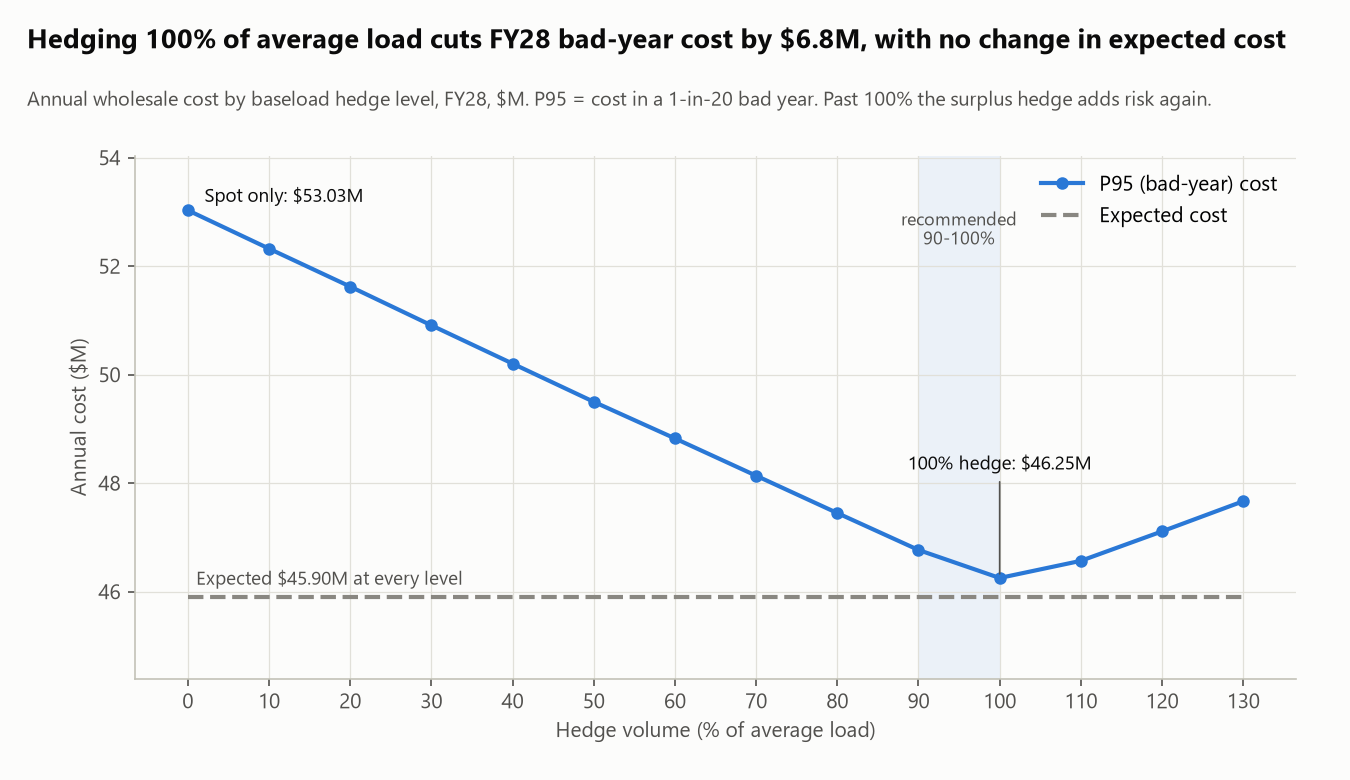
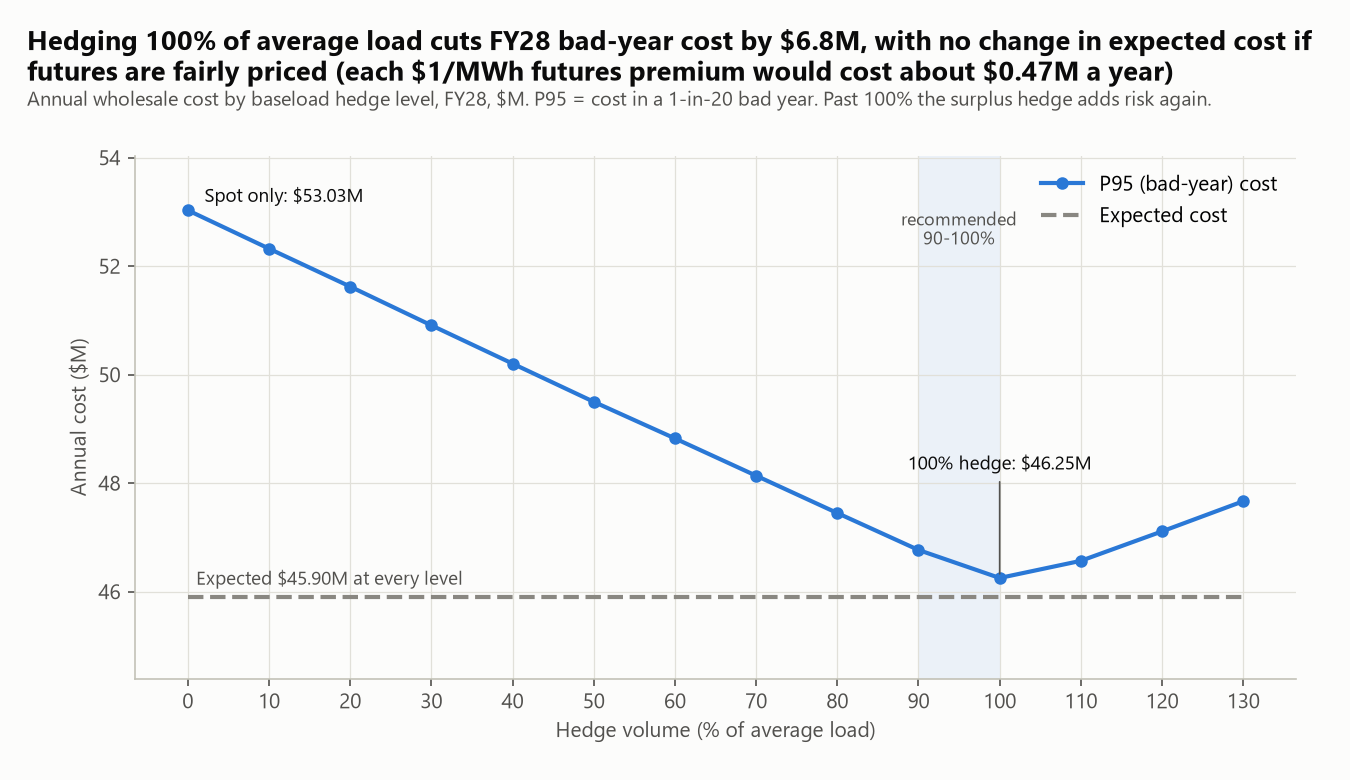
docs(readme): lead with findings and state the fair-futures assumption

Changed region(s): [[0.0, 0.0308, 0.9956, 0.1231]]

diff --git a/src/viz.py b/src/viz.py
@@ -84,9 +84,11 @@ def hedge_curve_chart() -> None:
     curve = read_table("hedge_curve").query("fy == @FY")
     unhedged = curve.query("hedge_pct == 0").iloc[0]
     best = curve.loc[curve["p95_cost_m"].idxmin()]
+    payoff = read_table("hedge_breakeven").query("fy == @FY").iloc[0]
     fig, ax = titled_figure(
         f"Hedging {best.hedge_pct:.0f}% of average load cuts FY{FY % 100} bad-year cost by "
-        f"${best.p95_reduction_m:.1f}M, with no change in expected cost",
+        f"${best.p95_reduction_m:.1f}M, with no change in expected cost if futures are fairly priced "
+        f"(each $1/MWh futures premium would cost about ${payoff.payoff_m_per_dollar_100:.2f}M a year)",
         f"Annual wholesale cost by baseload hedge level, FY{FY % 100}, $M. P95 = cost in a 1-in-20 bad year. "
         "Past 100% the surplus hedge adds risk again.",
     )

diff --git a/README.md b/README.md
@@ -3,26 +3,11 @@
 *Capstone project, Master of Business Analytics, final semester (2026)*
 
 **Answer:** hedge 90-100% of average load with ASX baseload futures. It cuts the FY28 bad-year electricity
-cost from $53.03M to $46.25-46.77M with no change in expected cost ($45.90M). At today's assumptions, a battery,
-and a solar PPA at the assumed $65/MWh strike, both cost more than spot.
+cost from $53.03M to $46.25-46.77M with no change in expected cost ($45.90M) if futures are fairly priced (each
+$1/MWh futures premium would cost about $0.47M a year at a full hedge). At today's assumptions, a battery, and a
+solar PPA at the assumed $65/MWh strike, both cost more than spot.
 
-![Hedging 100% of average load cuts FY28 bad-year cost by $6.8M, with no change in expected cost](reports/figures/01_hedge_curve.png)
-
-## Inspiration
-
-In my final semester, our capstone asked how a new data centre in New South Wales should buy its electricity.
-Under a semester deadline we delivered a clear recommendation, but one result stayed with me: the futures hedge
-appeared to save millions every single year. Hedges usually buy certainty, not savings, so a result that good
-deserved a second look. After graduating, I rebuilt the analysis from scratch with new code, the full five-minute
-market data and more time to test the assumptions. This project is the question I wished we'd asked from the start.
-([Why the answers differ](reports/findings.md#why-this-differs-from-the-original-capstone-analysis))
-
-## The question
-
-For the next three financial years, FY2028-FY2030 (July 2027 to June 2030), how do buying at spot, hedging with
-futures, adding a battery or contracting solar compare on what electricity usually costs, and on what it costs in a
-bad year? The audience is the data centre's CFO or energy procurement lead, who has to choose a procurement strategy
-and decide how much of the load to hedge. Costs are wholesale energy only, in the NSW market.
+![Hedging 100% of average load cuts FY28 bad-year cost by $6.8M, with no change in expected cost if futures are fairly priced (each $1/MWh futures premium would cost about $0.47M a year)](reports/figures/01_hedge_curve.png)
 
 ## Key findings
 
@@ -41,7 +26,33 @@ and decide how much of the load to hedge. Costs are wholesale energy only, in th
    months gives no reduction in cost of uncertainty (15.5% of expected cost with all days, 16.1% without).
 
 All figures are for FY28. Battery figures include $2.98M a year of equivalent capex and O&M (8%, 15 years).
-FY29-FY30 results, the full recommendations and the hypothesis verdicts are in [the findings report](reports/findings.md).
+FY29-FY30 results and the hypothesis verdicts are in [the findings report](reports/findings.md).
+
+## Recommendations
+
+In priority order; owners, measures and risks are in [the findings report](reports/findings.md#recommendations-ranked-by-impact-x-ease).
+
+1. **Hedge 90-100% of average load (48-53 MW) with ASX baseload futures for FY28-FY30**, and check the hedge
+   ratio against actual load each month.
+2. **Hold off on a battery** and re-run the case with each CSIRO GenCost release as battery costs fall.
+3. **Negotiate a solar PPA only with a negative-price suspension clause** and a strike below $66.99/MWh for FY28
+   ($69.70 for FY29-FY30).
+
+## Inspiration
+
+In my final semester, our capstone asked how a new data centre in New South Wales should buy its electricity.
+Under a semester deadline we delivered a clear recommendation, but one result stayed with me: the futures hedge
+appeared to save millions every single year. Hedges usually buy certainty, not savings, so a result that good
+deserved a second look. After graduating, I rebuilt the analysis from scratch with new code, the full five-minute
+market data and more time to test the assumptions. This project is the question I wished we'd asked from the start.
+([Why the answers differ](reports/findings.md#why-this-differs-from-the-original-capstone-analysis))
+
+## The question
+
+For the next three financial years, FY2028-FY2030 (July 2027 to June 2030), how do buying at spot, hedging with
+futures, adding a battery or contracting solar compare on what electricity usually costs, and on what it costs in a
+bad year? The audience is the data centre's CFO or energy procurement lead, who has to choose a procurement strategy
+and decide how much of the load to hedge. Costs are wholesale energy only, in the NSW market.
 
 ## What the charts show
 
@@ -88,6 +99,15 @@ without the 2022 crisis.
 **Tools:** SQL on DuckDB for staging and joins; Python (pandas, matplotlib) for the load profile, pricing,
 simulation and charts; pytest for tests. I used DuckDB because it runs on any laptop with no server, and its
 standard SQL ports to PostgreSQL or Snowflake.
+
+## Where to look in the code
+
+- [`sql/04_int_intervals.sql`](sql/04_int_intervals.sql): joins prices, solar output and the calendar into one
+  row per five-minute interval.
+- [`src/pricing.py`](src/pricing.py): re-levels historical prices to the futures price.
+- [`src/bootstrap.py`](src/bootstrap.py): builds simulated years from 7-day blocks of real history.
+- [`src/strategies.py`](src/strategies.py): the cost engine for every strategy and the battery dispatch rule.
+- [`tests/test_costs.py`](tests/test_costs.py): hand-worked examples, real historical days and cost tests.
 
 ## How I checked the numbers
 
